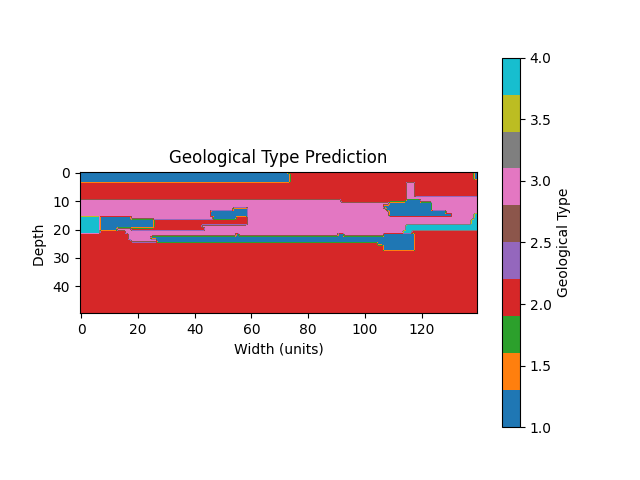
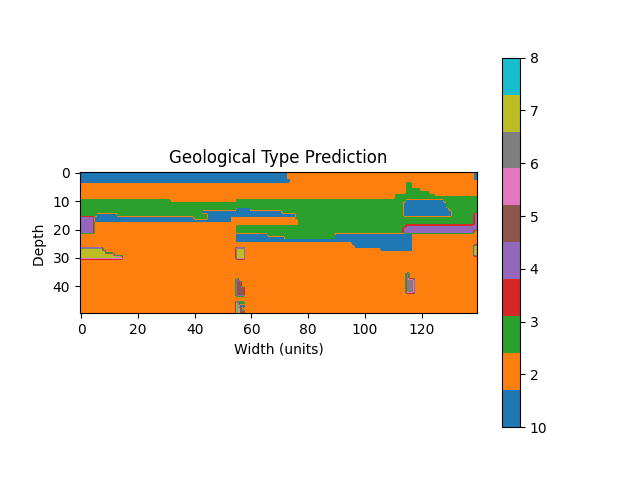
修改圖例表示，讀檔優化

diff --git a/gpt.py b/gpt.py
@@ -2,52 +2,61 @@ import numpy as np
 import pandas as pd
 import operator as op
 import matplotlib.pyplot as plt
-
+# -----------testing file----------------
 Matrix4D = "test.csv"
 Matrix5D = '5DMatrix.csv'
 sixHole = '6Hole.csv'
-# test_file='test - 複製.csv'
-test_file='test.csv'
+test='test - 複製.csv'
+eightSoil='8soil.csv'
+# -----------testing file----------------
+# file preprocessing
+entire_file = pd.read_csv(eightSoil, delimiter=",").fillna(0).values # 讀取文件空值全部補0
+entiry_matrix = entire_file[1:, :]  # skip first column 第一行是位置
+Hole_distance = entire_file[0]
+# 取得土壤種類
+unique_numbers = np.unique(entiry_matrix)
+# 從unique_numbers過濾掉0
+unique_numbers = unique_numbers[unique_numbers != 0]
+typenumber = len(unique_numbers)
+
+
+# 建立土壤代號對應的數字
+mapping = {value: index+1 for index, value in enumerate(unique_numbers)}
+# 將公司土壤代號轉換為 1 ~ ...
+entiry_matrix =  np.array([[mapping[value] if not value==0 else np.nan for value in row] for row in entiry_matrix])
+transitionName = np.arange(1,typenumber+1)
+# file preprocessing
+
+
+# 定義模型的間隔、寬度、深度、面積、孔洞數量和地質類型數量等參數
+interval = 0.5
+W = int(Hole_distance.max() / interval) + 1
+D = int(entiry_matrix.shape[0] ) 
 
 denominator = 0
 molecular = 0
-HoleLocation_entire = []
-HoleLocation_verify = []
-
-
-entire_file = pd.read_csv(Matrix4D, delimiter=",").values
-entiry_matrix = entire_file[1:, :]  # skip first column 第一行是位子
-Hole_distance = entire_file[0]
-print('最大位置',Hole_distance.max())
-print('最深資料(個):', entiry_matrix.shape[0])
-# 定義模型的間隔、寬度、深度、面積、孔洞數量和地質類型數量等參數
-interval = 0.5
-W = int(Hole_distance.max() / interval)  +1
-D = int(entiry_matrix.shape[0])  
-# D = 50
-
 A = W * D
-print('寬度', W)
-print('深度', D)
-# 獲取不同數字的數量
-unique_numbers = np.unique(entiry_matrix)
-typenumber = len(unique_numbers)
-print(unique_numbers)
-print('共有', typenumber, '種土壤材質')
+# 空資料填充0
 
-# 轉換公司土壤代號為0~...
-mapping = {value: index+1 for index, value in enumerate(unique_numbers)}
-entiry_matrix = [[mapping[value] for value in row] for row in entiry_matrix]
+entiry_matrix[np.isnan(entiry_matrix)] = 0
+HoleLocation_entire=(Hole_distance/interval).astype(int)
+
+print('最大位置',Hole_distance.max())
+print('最深資料(個):', D)
+print('寬度', W,'深度', D)
+print('共有', typenumber, '種土壤材質')
+print("土壤代號",unique_numbers,entiry_matrix[0])
+
+print('mapping:', mapping)
 # 定義各個孔洞的位置
-HoleLocation_entire=Hole_distance/interval
-HoleLocation_entire=HoleLocation_entire.astype(int)
-print('孔洞位置:', HoleLocation_entire)
+print('孔洞完整位置:', HoleLocation_entire)
 
 # 計算轉移概率矩陣的函數
 def calculate_transition_matrix(matrix,hole_location):
     group_number = np.zeros((D , W))
     # # 將地質數據中的類型分組存儲到 group_number 數組中
-    for i in range(140):
+    #   TODO
+    for i in range(W):
         if i < 74:
             group_number[0][i] = 1
         else:
@@ -56,7 +65,6 @@ def calculate_transition_matrix(matrix,hole_location):
         for j in range(len(hole_location)):
             group_number[i][(hole_location[j])] = matrix[i][j]
 
-            
     T_t_V = np.zeros(len(matrix))
     soiltype_V = {}
 
@@ -108,87 +116,80 @@ def calculate_transition_matrix(matrix,hole_location):
 
 # 計算 HoleLocation_entire 的轉移矩陣
 Tmatrix_V_entire, Tmatrix_H_entire ,group_number_entire= calculate_transition_matrix(entiry_matrix,HoleLocation_entire)
-# 計算 HoleLocation_verify 的轉移矩陣
-# Tmatrix_V_verify, Tmatrix_H_verify,group_number_verify = calculate_transition_matrix(verify_matrix,HoleLocation_verify)
-file=open('mylog.txt','w')
-print('Tmatrix_V_entire:\n',Tmatrix_V_entire,file=file)
-print('Tmatrix_H_entire:\n',Tmatrix_H_entire,file=file)
+
 # 預測地質類型的函數
 def predict_geological_types(Tmatrix_V, Tmatrix_H, HoleLocation,group_number):
     L_state = 0
     M_state = 0
     Q_state = 0
     Nx = 0
-    a = 0
-    current_matrix = np.array([[0.0, 0.0, 0.0, 0.0,0.0]])
-    transitionName = np.array([[1, 2, 3, 4,5]])
+    current_matrix = np.zeros(len(transitionName))
+
     conditions = {}
     for j in range(1, len(HoleLocation)):
         conditions[(HoleLocation[j - 1], HoleLocation[j])] = HoleLocation[j]
     for layer in range(1,D):
         for i in range(W):
-            if i in (HoleLocation):
-                a += 1
+            # 若為鑽孔位置並且是有資料的就跳過
+            if i in (HoleLocation) and i != 0:
                 continue
             L_state = 0
             M_state = 0
             Q_state = 0
-            
             for (lower, upper), nx in conditions.items():
                 if lower < i < upper:
-                    # L_state = group_number[(i - 2) + (layer - 1) * W] - 1
-                    # M_state = group_number[(i - 1) + (layer - 2) * W] - 1
-                    # Q_state = group_number[(nx - 1) + (layer - 1) * W] - 1
                     L_state = group_number[layer][i-1] - 1
                     M_state = group_number[layer-1][i] - 1
                     Q_state = group_number[layer][nx] - 1
                     Nx = nx
                     break
-            print("Nx:",Nx,"L_state:",L_state,"M_state:",M_state,"Q_state:",Q_state,file=file)
-            
             
             Nx_TH = Tmatrix_H
             f_sum = 0
             k_sum = 0
-            f_item1 = 0
-            f_item2 = 0
-            f_item3 = 0
             for _ in range(1, Nx - i):
                 Nx_TH = np.dot(Nx_TH, Tmatrix_H)
-            # print("Nx_TH\n",Nx_TH, file=file)
-
             for f in range(typenumber):
                 f_item1 = Tmatrix_H[int(L_state)][f]
                 f_item2 = Nx_TH[f][int(Q_state)]
                 f_item3 = Tmatrix_V[int(M_state)][f]
                 f_sum += f_item1 * f_item2 * f_item3
-            print('f_item1:',f_item1,'f_item2:',f_item2,'f_item3:',f_item3,file=file)
-
-            for k in range(typenumber):
-                k_item1 = Tmatrix_H[int(L_state)][k]
-                k_item2 = Nx_TH[k][int(Q_state)]
-                k_item3 = Tmatrix_V[int(M_state)][k]
-                k_sum = k_item1 * k_item2 * k_item3
-                
-                current_matrix[0][k] = k_sum / f_sum
-            # print('layer:',layer)
+            if f_sum == 0:
+                current_matrix= np.ones(typenumber) / typenumber
+            else:
+                for k in range(typenumber):
+                    k_item1 = Tmatrix_H[int(L_state)][k]
+                    k_item2 = Nx_TH[k][int(Q_state)]
+                    k_item3 = Tmatrix_V[int(M_state)][k]
+                    k_sum = k_item1 * k_item2 * k_item3
+                    current_matrix[k] = k_sum / f_sum
             # 進行預測
-            group_number[layer][i] = np.random.choice(transitionName[0], replace=True, p=current_matrix[0])
-
+            group_number[layer][i] = np.random.choice(transitionName, replace=True, p=current_matrix)
     return group_number
 
 
 predict_result_entire = predict_geological_types(Tmatrix_V_entire, Tmatrix_H_entire, HoleLocation_entire,group_number_entire)
 
-# 重塑地質類型分組數組為矩陣
+
 
 # 可視化地質類型分布
 plt.imshow(predict_result_entire, cmap='tab10', origin='upper')
-plt.colorbar(label='Geological Type')
-plt.title('entiry hole pic')
+# plt.colorbar(label='Geological Type')
+cbar = plt.colorbar()
+# 獲取mapping所有key
+mapping_key = list(mapping.keys())
+mapping_value = list(mapping.values())
+
+print('mapping_key:',mapping_key)
+print('mapping_value:',mapping_value)
+
+cbar.set_ticks(mapping_value)  # 設置顏色條刻度
+# # 獲取mapping所有value
+cbar.set_ticklabels(mapping_key)  # 設置顏色條標籤
+plt.title('predict')
 plt.xlabel('Width (units)')
 plt.ylabel('Depth (units)')
-plt.savefig('geological_type_prediction_entiry.png')
+plt.savefig('predict.png')
 plt.show()
 plt.clf()
 

diff --git a/Markov.py b/Markov.py
@@ -1,19 +1,19 @@
 import numpy as np
 import operator as op
 import matplotlib.pyplot as plt
-import difflib
 
 Matrix4D="test.csv"
 Matrix5D='5DMatrix.csv'
 
 sixHole='6Hole.csv'
-
+test_file='test - 複製.csv'
+eightSoil='8soil.csv'
 # 定義模型的間隔、寬度、深度、面積、孔洞數量和地質類型數量等參數
 interval = 0.5
 W = int(70/interval) # 140
 D = int(25/interval) # 50
 A = W * D
-geo_matrix = np.loadtxt(Matrix4D, delimiter=",", skiprows=1) # saperate by ',' , skip first row
+geo_matrix = np.loadtxt(eightSoil, delimiter=",", skiprows=1) # saperate by ',' , skip first row
 
 
 
@@ -130,8 +130,8 @@ M_state = 0
 Q_state = 0
 Nx = 0
 a = 0
-current_matrix = np.array([[0.0, 0.0, 0.0, 0.0,0.0]])
-transitionName = np.array([[1, 2, 3, 4,5]])
+current_matrix = np.array([[0.0, 0.0, 0.0, 0.0,0.0,0.0,0.0,0.0]])
+transitionName = np.array([[1, 2, 3, 4,5,6,7,8]])
 
 conditions = {}
 for j in range(1, len(HoleLocation)):
@@ -176,14 +176,17 @@ for layer in range(2, D + 1):
             f_item2 = Nx_TH[f][Q_state.astype(int)]
             f_item3 = Tmatrix_V[M_state.astype(int)][f]
             f_sum += f_item1 * f_item2 * f_item3
-        print('f_item1:',f_item1,'f_item2:',f_item2,'f_item3:',f_item3,file=file)
+        print('f_sum:',f_sum,file=file)
 
-        for k in range(typenumber):
-            k_item1 = Tmatrix_H[L_state.astype(int)][k]
-            k_item2 = Nx_TH[k][Q_state.astype(int)]
-            k_item3 = Tmatrix_V[M_state.astype(int)][k]
-            k_sum = k_item1 * k_item2 * k_item3
-            current_matrix[0][k] = k_sum / f_sum
+        if f_sum == 0:
+            current_matrix[0] = np.ones(typenumber) / typenumber
+        else:
+            for k in range(typenumber):
+                k_item1 = Tmatrix_H[L_state.astype(int)][k]
+                k_item2 = Nx_TH[k][Q_state.astype(int)]
+                k_item3 = Tmatrix_V[M_state.astype(int)][k]
+                k_sum = k_item1 * k_item2 * k_item3
+                current_matrix[0][k] = k_sum / f_sum
         group_number[(i - 1) + (layer - 1) * W] = np.random.choice(transitionName[0], replace=True, p=current_matrix[0])
 # 重塑地質類型分組數組為矩陣
 group_matrix = group_number.reshape(D, W)
@@ -191,6 +194,9 @@ group_matrix = group_number.reshape(D, W)
 # 可視化地質類型分布
 plt.imshow(group_matrix, cmap='tab10', origin='upper')
 plt.colorbar(label='Geological Type')
+# cbar = plt.colorbar()
+# cbar.set_ticks([1,2,3,4,5,6,7,8])  # 設置顏色條刻度
+# cbar.set_ticklabels(['1', '2', '3', '4', '5', '6', '7','8'])  # 設置顏色條標籤
 plt.title('Geological Type Prediction')
 plt.xlabel('Width (units)')
 plt.ylabel('Depth ')
